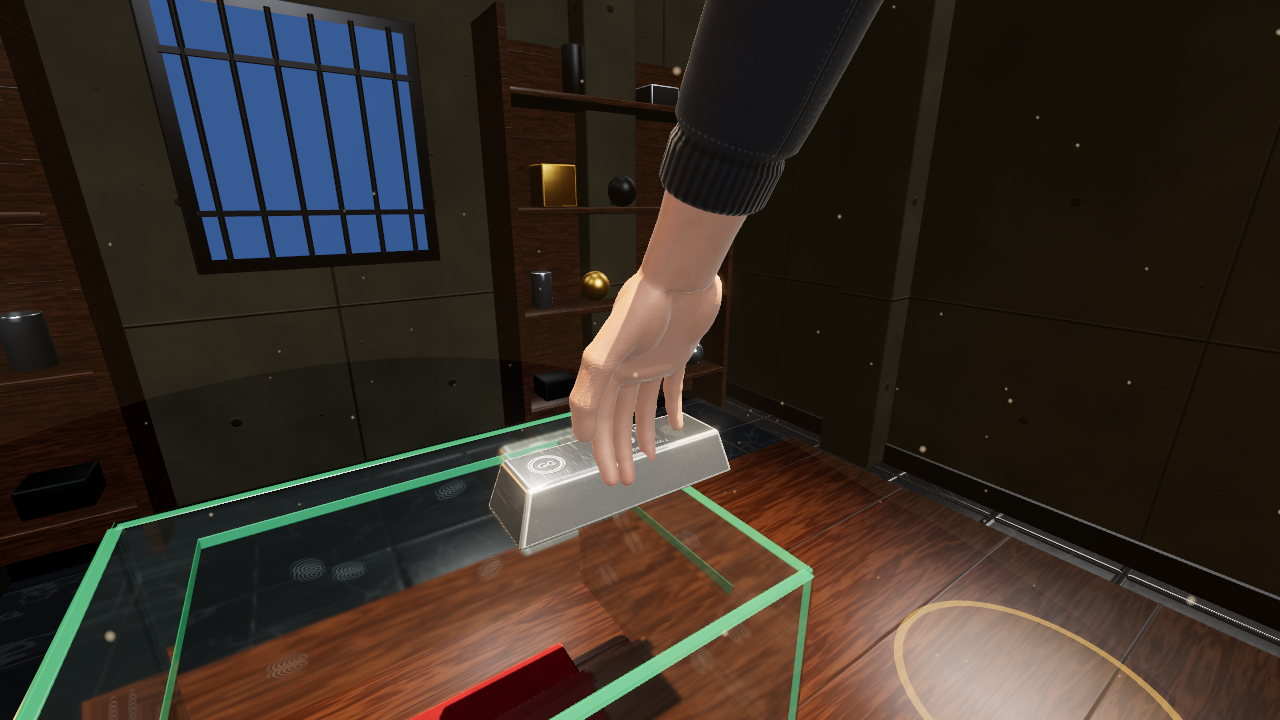
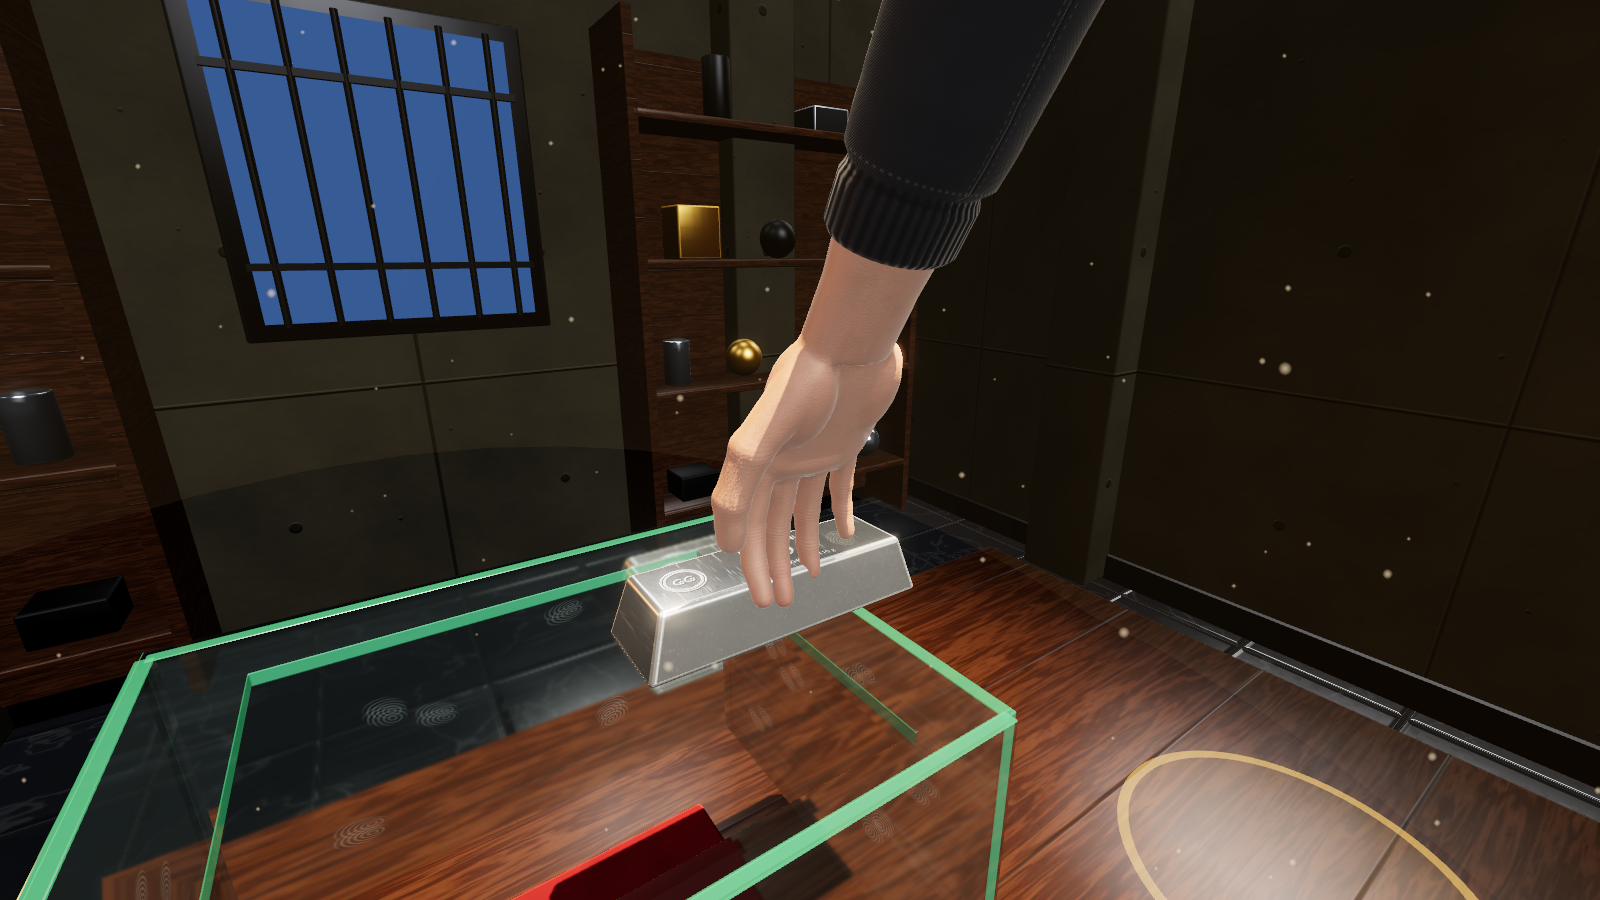
Клеймо на слитке соответствует металлу
На платиновом, серебряном и бронзовом слитках было выбито «FINE GOLD 999.9»: клеймо запечено
в карты нормалей и ORM золота, а остальные металлы брали их же. Теперь для каждого металла
запечены свои карты (bar_<металл>_normal, bar_<металл>_orm) с надписями «FINE PLATINUM 999.5»,
«FINE SILVER 999.9», «BRONZE CuSn12» и своим номинальным весом. Тексты клейм — STAMPS в
tools/blender/bake_textures.py (ключ запекания bar_metals). Золото не менялось.

diff --git a/src/textures.js b/src/textures.js
@@ -356,10 +356,11 @@ function pbr(set, extra = {}, physical = false) {
 }
 
 export async function createMaterials() {
-  const [gold, skin, glove, wood, concrete, tiles, velvet, glassMaps, vase, crown, gloveLight, felt, chips, dice, sleeve] = await Promise.all([
+  const [gold, skin, glove, wood, concrete, tiles, velvet, glassMaps, vase, crown, gloveLight, felt, chips, dice, sleeve, barMaps] = await Promise.all([
     loadSet('gold'), loadSet('skin'), loadSet('glove'), loadSet('wood_table', 1), loadSet('wall_concrete', 1),
     loadSet('floor_tiles', 1), loadSet('velvet_red', 1), loadGlassMaps(), loadSet('vase'), loadSet('crown'), tryLoad('glove_light_albedo'),
     loadSet('felt_green', 1), loadSet('chips'), loadSet('dice'), loadSet('sleeve'),
+    Promise.all(['platinum', 'silver', 'bronze'].map(async (m) => [m, await Promise.all([tryLoad(`bar_${m}_normal`), tryLoad(`bar_${m}_orm`)])])).then(Object.fromEntries),
   ]);
   const sets = { gold, skin, glove, wood, concrete, tiles, velvet, vase, crown, felt, chips, dice };
   const fallbacks = Object.entries(sets).filter(([, s]) => s.fallback).map(([k]) => k);
@@ -369,12 +370,18 @@ export async function createMaterials() {
   // Золото: металл, отражения берёт из PMREM-окружения.
   M.gold = pbr(gold, { color: 0xffc94a, envMapIntensity: 1.5, clearcoat: 0.15, clearcoatRoughness: 0.3 }, true);
   if (!gold.fallback) M.gold.color.set(0xffffff); // запечённое albedo уже золотое
-  // Другие металлы слитка (src/metals.js): те же карты нормалей и ORM, что у золота (клеймо, царапины, фаски),
-  // но без запечённого золотого цвета — цвет задан числом. Новой запечки в Blender для них не нужно.
-  const plainBar = { ...gold, map: null };
-  M.platinum = pbr(plainBar, { color: 0xe9e7e2, roughness: 0.9, metalness: 1, envMapIntensity: 1.7, clearcoat: 0.2, clearcoatRoughness: 0.25 }, true);   // светлая, чуть тёплая
-  M.silver = pbr(plainBar, { color: 0xb9c6d4, roughness: 0.7, metalness: 1, envMapIntensity: 1.9, clearcoat: 0.1, clearcoatRoughness: 0.2 }, true);      // холодное, самое зеркальное
-  M.bronze = pbr(plainBar, { color: 0xa35a34, roughness: 1.25, metalness: 0.85, envMapIntensity: 1.2 }, true);                                            // красновато-коричневая, матовее
+  // Другие металлы слитка (src/metals.js): тот же слиток (царапины, фаски, отпечаток пальца), но без запечённого
+  // золотого цвета — цвет задан числом.
+  // У каждого металла своё клеймо («FINE SILVER», «BRONZE»…), поэтому карты нормалей и ORM свои: bar_<металл>_*.
+  // Нет файлов — берутся карты золота (тогда на слитке останется надпись GOLD), и об этом пишется в отчёт об ассетах.
+  const barSet = (metal) => {
+    const [n, o] = barMaps[metal] || [];
+    if (!n || !o) { fallbacks.push(`bar_${metal}`); return { ...gold, map: null }; }
+    return { ...gold, map: null, normalMap: setup(n, false, 1), ormMap: setup(o, false, 1) };
+  };
+  M.platinum = pbr(barSet('platinum'), { color: 0xe9e7e2, roughness: 0.9, metalness: 1, envMapIntensity: 1.7, clearcoat: 0.2, clearcoatRoughness: 0.25 }, true);   // светлая, чуть тёплая
+  M.silver = pbr(barSet('silver'), { color: 0xb9c6d4, roughness: 0.7, metalness: 1, envMapIntensity: 1.9, clearcoat: 0.1, clearcoatRoughness: 0.2 }, true);      // холодное, самое зеркальное
+  M.bronze = pbr(barSet('bronze'), { color: 0xa35a34, roughness: 1.25, metalness: 0.85, envMapIntensity: 1.2 }, true);                                            // красновато-коричневая, матовее
   // Стекло: пропускание + разводы в шероховатости.
   M.glass = new THREE.MeshPhysicalMaterial({
     color: 0xffffff, metalness: 0, roughness: 1, roughnessMap: glassMaps.smudges,

diff --git a/tools/blender/bake_textures.py b/tools/blender/bake_textures.py
@@ -30,7 +30,19 @@ SAMPLES = 128
 # ---------------------------------------------------------------------------
 # Маркировка слитка: рендерим текст сверху в чёрно-белую маску
 # ---------------------------------------------------------------------------
-def render_stamp(bar_cfg):
+# Клеймо по металлам (src/metals.js): название, проба и номинальный вес. Золото — исходное клеймо.
+# Строки: (верхняя надпись, её размер, проба, нижняя строка).
+STAMPS = {
+    "gold": ("FINE GOLD", 0.0105, "999.9", "No GG-004871   1000 g"),
+    "platinum": ("FINE PLATINUM", 0.0086, "999.5", "No GG-004871   1110 g"),
+    "silver": ("FINE SILVER", 0.0100, "999.9", "No GG-004871   540 g"),
+    "bronze": ("BRONZE", 0.0115, "CuSn12", "No GG-004871   460 g"),
+}
+BAR_METALS = ("platinum", "silver", "bronze")     # для них запекаются свои карты нормалей и ORM (bar_<металл>_*.png)
+
+
+def render_stamp(bar_cfg, metal="gold"):
+    title, title_size, grade, serial = STAMPS[metal]
     C.reset_scene()
     C.setup_cycles(32)
     scene = bpy.context.scene
@@ -50,9 +62,9 @@ def render_stamp(bar_cfg):
         ob.location = (x, y, 0)
         ob.data.materials.append(white)
 
-    text("FINE GOLD", 0.0105, 0.012, 0.0155)
-    text("999.9", 0.0185, 0.012, -0.0015)
-    text("No GG-004871   1000 g", 0.0062, 0.012, -0.0185)
+    text(title, title_size, 0.012, 0.0155)
+    text(grade, 0.0185 if len(grade) <= 5 else 0.0150, 0.012, -0.0015)
+    text(serial, 0.0062, 0.012, -0.0185)
     text("GG", 0.0105, -0.068, -0.0008)
     bpy.ops.mesh.primitive_torus_add(major_radius=0.0125, minor_radius=0.0009, major_segments=64, minor_segments=8, location=(-0.068, 0, 0))
     bpy.context.active_object.data.materials.append(white)
@@ -75,7 +87,7 @@ def render_stamp(bar_cfg):
     scene.render.resolution_percentage = 100
     scene.view_settings.view_transform = "Standard"
     scene.render.image_settings.file_format = "PNG"
-    path = os.path.join(C.CACHE, "stamp.png")
+    path = os.path.join(C.CACHE, "stamp.png" if metal == "gold" else f"stamp_{metal}.png")
     scene.render.filepath = path
     bpy.ops.render.render(write_still=True)
     print("[stamp]", C.rel(path))
@@ -598,6 +610,8 @@ def bake_all(only=None):
     stamp_path = os.path.join(C.CACHE, "stamp.png")
     if want("gold"):
         stamp_path = render_stamp(data["bar"])
+    # клейма других металлов: у каждого своя надпись, поэтому свои карты нормалей и шероховатости (цвет задаёт игра)
+    metal_stamps = {m: render_stamp(data["bar"], m) for m in BAR_METALS} if want("bar_metals") else {}
 
     C.reset_scene()
     C.setup_cycles(SAMPLES)
@@ -606,6 +620,18 @@ def bake_all(only=None):
         bar = M.build_bar(data["bar"])
         nt = assign(bar, "gold")
         C.bake_pbr(bar, nt, mat_gold(nt, stamp_path, data["bar"]), "gold", HERO)
+        bar.hide_render = True
+
+    if metal_stamps:
+        bar = M.build_bar(data["bar"])
+        for metal, path in metal_stamps.items():
+            nt = assign(bar, f"bar_{metal}")
+            ch = mat_gold(nt, path, data["bar"])
+            print(f"[bake] bar_{metal} {HERO}px")
+            C.save_png(os.path.join(C.TEXTURES, f"bar_{metal}_normal.png"), C.bake(bar, nt, ch, "normal", HERO)[:, :, :3])
+            rough = C.bake(bar, nt, ch, "rough", HERO)[:, :, 0]
+            occ = C.bake(bar, nt, ch, "ao", HERO)[:, :, 0]
+            C.save_png(os.path.join(C.TEXTURES, f"bar_{metal}_orm.png"), np.dstack([occ, rough, np.full_like(rough, 255)]))
         bar.hide_render = True
 
     if want("skin") or want("glove") or want("glove_light"):

diff --git a/README.md b/README.md
@@ -157,6 +157,7 @@ npm run build:win
 
 ## Подводные камни
 
+- **Клеймо на слитке запечено в текстуру.** Надпись «FINE GOLD 999.9» — часть карты нормалей и ORM, поэтому у платины, серебра и бронзы карты свои (`bar_<металл>_normal`, `bar_<металл>_orm`) с надписями «FINE PLATINUM 999.5», «FINE SILVER 999.9», «BRONZE CuSn12» и своим весом. Тексты клейм — `STAMPS` в `tools/blender/bake_textures.py`; перезапечь: `bake_textures.py -- only=bar_metals`, затем `npm run textures`. Новый металл без своих карт получит золотые (с надписью GOLD), и игра напишет об этом в отчёте об ассетах.
 - **Золото — эталон.** У золота `density: 1` и `slip: 1` в `src/metals.js`; на них умножаются масса и порог выскальзывания. Поменять эти единицы — значит изменить время автопилота на всех 40 уровнях (`BASELINE` в `tools/test/play.mjs`).
 - **Лёгкий слиток и весы.** Порог весов (`min` у ловушки `scale`) задан для золота и умножается на плотность металла. Без этого серебряный слиток (1,08 кг при пороге 1,6 кг) поднимал бы тревогу, просто лёжа на весах.
 - **Предел досягаемости надо ограничивать по глубине, а не тянуть точку к плечу.** Если тянуть к плечу по прямой, в узком отверстии кисть съезжает вбок и вверх и упирается в стекло.
@@ -195,7 +196,7 @@ blender --background --python tools/blender/build_all.py
 Если `blender` не в PATH, укажите полный путь к исполняемому файлу. Отдельные этапы: `build_models.py` (GLB + превью моделей) и `bake_textures.py` (запекание Cycles + превью; можно `-- only=gold,skin`). Параметры коробок берутся из `src/levels.js` через `node tools/export_levels.mjs`, поэтому после изменения размеров коробки или отверстия ассеты надо пересобрать — иначе игра покажет старое стекло при новой физике.
 
 - `assets/models/` — hand.glb (скелет: forearm, wrist, thumb/index/middle/ring/pinky _01.._03; в нём же рукав куртки — сетки `sleeve` на кости forearm и `sleeve_upper` выше локтя), gold_bar.glb, vase.glb, crown.glb, coins.glb, weight.glb, chips.glb, dice.glb, diamond.glb, ring.glb и watch.glb (украшения в координатах руки, игра вешает их на кости), camera.glb (cam_base и cam_head), shutter.glb (единичная пластина, растягивается под отверстие), glass_box.glb (стенки `L<id уровня>_<стенка>` и перегородки `L<id>_inner<номер>`; у этапов финала id вида `40s1`), table.glb, pedestal.glb, room.glb (стены и лампа), set_pawnshop.glb, set_museum.glb, set_bank.glb, set_casino.glb и set_boss.glb (обстановка ограблений).
-- `assets/textures/` — наборы `*_albedo.png`, `*_normal.png` (OpenGL), `*_orm.png` (R = AO, G = roughness, B = metalness) для gold, skin, glove, sleeve (ткань рукава), vase, crown, chips, dice и окружения (в том числе felt_green — сукно); `glove_light_albedo.png` — светлая перчатка под подкраску; `glass_smudges.png`, `glass_cracks_1..3.png`.
+- `assets/textures/` — наборы `*_albedo.png`, `*_normal.png` (OpenGL), `*_orm.png` (R = AO, G = roughness, B = metalness) для gold, skin, glove, sleeve (ткань рукава), bar_platinum / bar_silver / bar_bronze (слиток с клеймом своего металла, без albedo), vase, crown, chips, dice и окружения (в том числе felt_green — сукно); `glove_light_albedo.png` — светлая перчатка под подкраску; `glass_smudges.png`, `glass_cracks_1..3.png`.
 - `tools/blender/previews/` — превью для проверки глазами (рукав — `tex_sleeve*.png`).
 
 После пересборки в Blender текстуры надо заново перевести в WebP: `npm run textures`.

diff --git a/docs/assets_weight.md b/docs/assets_weight.md
@@ -4,6 +4,12 @@
 
 | Файл | PNG, КБ | WebP, КБ | Сторона, пикс. | Режим |
 | --- | ---: | ---: | --- | --- |
+| bar_bronze_normal | 1159 | 244 | 2048 → 1024 | без потерь |
+| bar_bronze_orm | 830 | 42 | 2048 → 1024 | качество 85 |
+| bar_platinum_normal | 1159 | 245 | 2048 → 1024 | без потерь |
+| bar_platinum_orm | 829 | 42 | 2048 → 1024 | качество 85 |
+| bar_silver_normal | 1160 | 245 | 2048 → 1024 | без потерь |
+| bar_silver_orm | 830 | 42 | 2048 → 1024 | качество 85 |
 | chips_albedo | 78 | 17 | 512 | качество 85 |
 | chips_normal | 43 | 28 | 512 | без потерь |
 | chips_orm | 127 | 16 | 512 | качество 85 |
@@ -48,4 +54,4 @@
 | wood_table_albedo | 423 | 54 | 1024 | качество 85 |
 | wood_table_normal | 6 | 2 | 1024 | без потерь |
 | wood_table_orm | 101 | 10 | 1024 | качество 85 |
-| **Итого** | **28992** | **6778** | | |
+| **Итого** | **34959** | **7636** | | |
